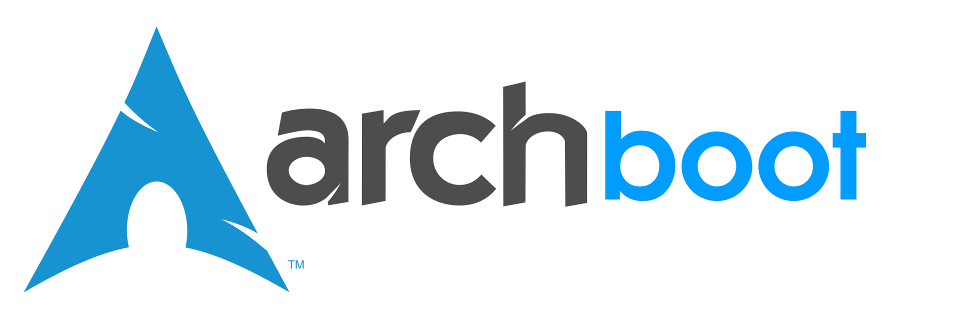
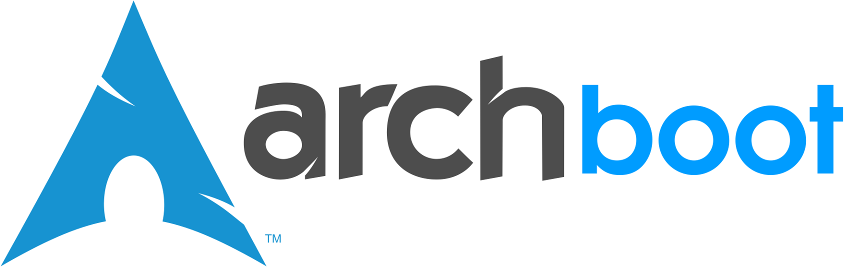
v2.6.2
update README.md

diff --git a/README.md b/README.md
@@ -1,4 +1,4 @@
-<img src="https://raw.githubusercontent.com/grm34/archboot/master/img/archboot.png" width="600">
+<img src="https://raw.githubusercontent.com/grm34/archboot/master/img/archboot.png" width="480">
 
 [![Build Status](https://travis-ci.org/grm34/archboot.svg?branch=master)](https://travis-ci.org/grm34/archboot) [![Gitter](https://badges.gitter.im/grm34/archboot.svg)](https://gitter.im/grm34/archboot?utm_source=badge&utm_medium=badge&utm_campaign=pr-badge) [![author](https://img.shields.io/badge/author-grm34-red.svg)](https://github.com/grm34) [![license](https://img.shields.io/badge/license-Apache%202.0-blue.svg)](https://github.com/grm34/archboot/blob/master/LICENSE)
 
